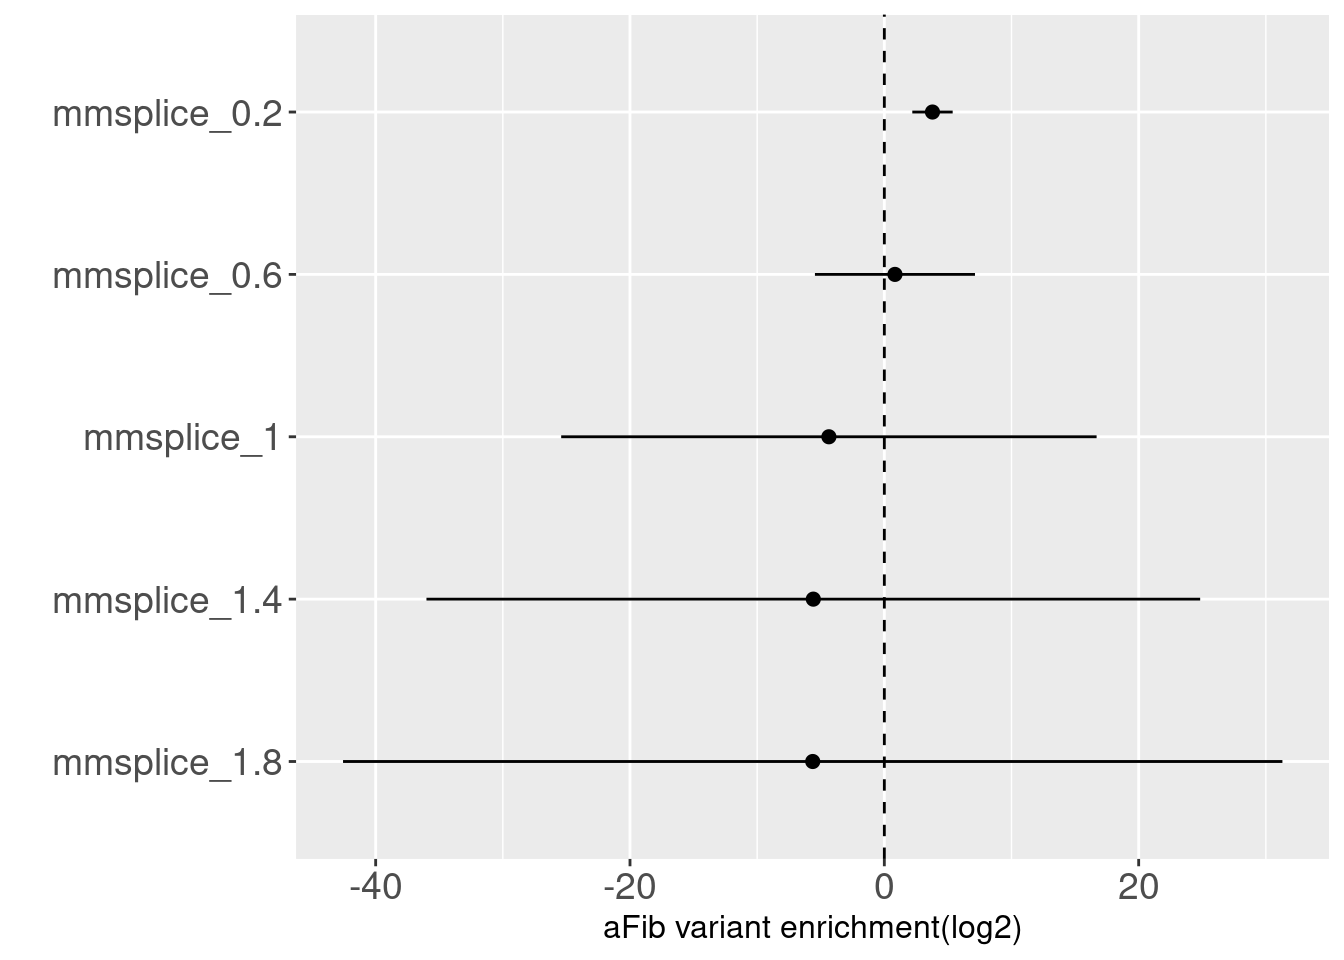
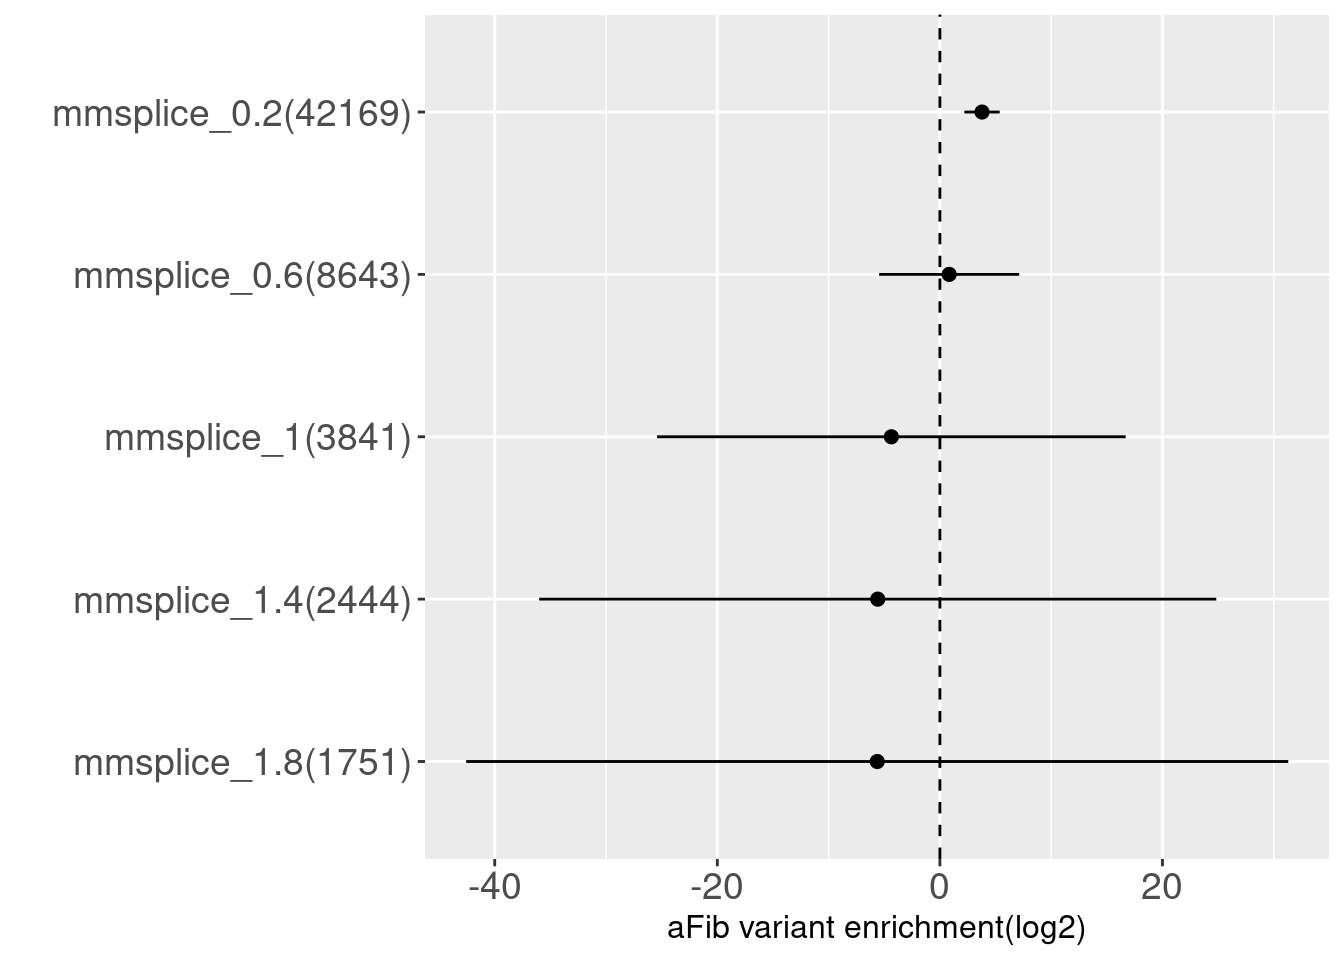
Build site.

diff --git a/docs/enrichment_analysis.html b/docs/enrichment_analysis.html
@@ -370,7 +370,7 @@ div.tocify {
 <div class="tab-content">
 <div id="summary" class="tab-pane fade in active">
 <p>
-<strong>Last updated:</strong> 2021-10-09
+<strong>Last updated:</strong> 2021-10-11
 </p>
 <p>
 <strong>Checks:</strong> <span class="glyphicon glyphicon-ok text-success" aria-hidden="true"></span> 6 <span class="glyphicon glyphicon-exclamation-sign text-danger" aria-hidden="true"></span> 1
@@ -501,16 +501,16 @@ output/scz_immune_joint_enrichment.png
 <div class="panel panel-default">
 <div class="panel-heading">
 <p class="panel-title">
-<a data-toggle="collapse" data-parent="#workflowr-checks" href="#strongRepositoryversionstrongahrefhttpsgithubcomj3gufuncFinemappingtree68fc455ffa248eb46de0d53984d43cec444378bctargetblank68fc455a"> <span class="glyphicon glyphicon-ok text-success" aria-hidden="true"></span> <strong>Repository version:</strong> <a href="https://github.com/j3gu/funcFinemapping/tree/68fc455ffa248eb46de0d53984d43cec444378bc" target="_blank">68fc455</a> </a>
+<a data-toggle="collapse" data-parent="#workflowr-checks" href="#strongRepositoryversionstrongahrefhttpsgithubcomj3gufuncFinemappingtree232f57cd19779218287204b4becf68e6b9b94490targetblank232f57ca"> <span class="glyphicon glyphicon-ok text-success" aria-hidden="true"></span> <strong>Repository version:</strong> <a href="https://github.com/j3gu/funcFinemapping/tree/232f57cd19779218287204b4becf68e6b9b94490" target="_blank">232f57c</a> </a>
 </p>
 </div>
[2 lines of base64/hex data omitted]
 <div class="panel-body">
 <p>
 Great! You are using Git for version control. Tracking code development and connecting the code version to the results is critical for reproducibility.
 </p>
 <p>
-The results in this page were generated with repository version <a href="https://github.com/j3gu/funcFinemapping/tree/68fc455ffa248eb46de0d53984d43cec444378bc" target="_blank">68fc455</a>. See the <em>Past versions</em> tab to see a history of the changes made to the R Markdown and HTML files.
+The results in this page were generated with repository version <a href="https://github.com/j3gu/funcFinemapping/tree/232f57cd19779218287204b4becf68e6b9b94490" target="_blank">232f57c</a>. See the <em>Past versions</em> tab to see a history of the changes made to the R Markdown and HTML files.
 </p>
 <p>
 Note that you need to be careful to ensure that all relevant files for the analysis have been committed to Git prior to generating the results (you can use <code>wflow_publish</code> or <code>wflow_git_commit</code>). workflowr only checks the R Markdown file, but you know if there are other scripts or data files that it depends on. Below is the status of the Git repository when the results were generated:
@@ -596,6 +596,40 @@ Message
 </tr>
 </thead>
 <tbody>
+<tr>
+<td>
+Rmd
+</td>
+<td>
+<a href="https://github.com/j3gu/funcFinemapping/blob/232f57cd19779218287204b4becf68e6b9b94490/analysis/enrichment_analysis.Rmd" target="_blank">232f57c</a>
+</td>
+<td>
+Jing Gu
+</td>
+<td>
+2021-10-11
+</td>
+<td>
+MTSplice on SCZ GWAS
+</td>
+</tr>
+<tr>
+<td>
+html
+</td>
+<td>
+<a href="https://rawcdn.githack.com/j3gu/funcFinemapping/5318fb4a7aca6e30499e8c7296e7fa43e4343213/docs/enrichment_analysis.html" target="_blank">5318fb4</a>
+</td>
+<td>
+Jing Gu
+</td>
+<td>
+2021-10-09
+</td>
+<td>
+Build site.
+</td>
+</tr>
 <tr>
 <td>
 Rmd
@@ -1641,22 +1675,26 @@ Jing Gu
 </div>
 <div id="tissue-specific-splicing" class="section level4">
 <h4>Tissue-specific Splicing</h4>
-<p>Background: From literature, only a limited fraction between 7 to 21% of splicing QTLs are tissue-specific (Meme et al.2015). When tissue-specific splicing was predicted using TSplice, the author found out less than 3.4% tested pairs of tissue-specific splicing scores deviated by 20% from the tissue-averaged splicing scores. In terms of the performance, TSplice's predictions is positively correlated with measurements (mean <span class="math inline">\(\rho=0.22\)</span>). By combining the models of tissue-specific and tissue-indenpendent effects on splicing (called as MTSplice), they were able to achieve significant improvement, especially in 10 out of 12 brain tissues. However, the improvement in relevant mean square error was modest.</p>
+<p>Background: From literature, only a limited fraction between 7 to 21% of splicing QTLs are tissue-specific (Meme et al.2015). The quantity for measuring variant effect on splicing is the inclusion level of the exon, denoted by percent spliced in (PSI <span class="math inline">\(\Psi\)</span>). It was defined as the fratcion of the number of overlapped reads (IR) out of total reads, which are the sum of overlapped reads (IR) and split reads (ER) that are aligned to multiple exons due to alternative splicing. <span class="math display">\[
+\Psi = \frac{IR}{IR+ES}
+\]</span> When tissue-specific splicing was predicted using TSplice, the author found out less than 3.4% tested pairs of tissue-specific splicing scores deviated by 20% from the tissue-averaged splicing scores. In terms of the performance, TSplice's predictions is positively correlated with measurements (mean <span class="math inline">\(\rho=0.22\)</span>). By combining the models of tissue-specific and tissue-indenpendent effects on splicing (called as MTSplice), they were able to achieve significant improvement, especially in 10 out of 12 brain tissues. However, the improvement in relevant mean square error was modest.</p>
+<p>The main score predicted by the tissue-independent model(MMSplice) is delta_logit_psi (<span class="math inline">\(\Delta\text{logit}(\Psi)\)</span>), which denotes the difference in the the inclusion level of the exon between ref and alt alleles. The score is on a logit scale. The <span class="math inline">\(\Delta\text{logit}(\Psi)\)</span> score for each tissue predicted by the combined model (MTSplice) are included in the same output table. As multiple exons were examined for each variant, we retain the highest absolute value of delta_logit_psi across the variant-exon pairs. Lastly, it is recommended that effect of a variant with <span class="math inline">\(|\Delta\text{logit}(\Psi)|\)</span> &gt;=2 is considered to be strong.</p>
 <div id="testrun-on-afib-gwas" class="section level5">
 <h5>Testrun on Afib GWAS</h5>
-<p><strong>MMSplice - not tissue-specific </strong></p>
+<p><strong>MMSplice - not tissue-specific </strong><br />
+This test run was based on splicing annotations generated using a tissue-independent model. AFib's Risk variants were significantly enriched in <span class="math inline">\(|\Delta\text{logit}(\Psi)|\)</span> &gt;= 0.6, which indicates risk variants tend to exert small effects on splicing. Across the cutoffs with higher values, AFib's risk variants were depleted in splicing annotations.</p>
 <pre><code>  cutoff(absolute value) num_gwasVar_in_annot num_randomVar_in_annot
 1                    0.2                42169                  51611
 2                    0.6                 8643                  10906
 3                    1.0                 3841                   4888
 4                    1.4                 2444                   3130
 5                    1.8                 1751                   2276
-  prop_randomVar_in
-1            0.0062
-2            0.0013
-3            0.0006
-4            0.0004
-5            0.0003</code></pre>
+  prop_randomVar_in_annot
+1                  0.0062
+2                  0.0013
+3                  0.0006
+4                  0.0004
+5                  0.0003</code></pre>
 <p><img src="figure/enrichment_analysis.Rmd/unnamed-chunk-23-1.png" width="672" style="display: block; margin: auto;" /></p>
 <p>
 <button type="button" class="btn btn-default btn-xs btn-workflowr btn-workflowr-fig" data-toggle="collapse" data-target="#fig-unnamed-chunk-23-1">
@@ -1741,7 +1779,7 @@ Jing Gu
 </div>
 <p>Tissue: Atrial Appendage-Heart<br />
 <strong>MTSplice - tissue-specific + tissue-independent </strong><br />
-<img src="figure/enrichment_analysis.Rmd/unnamed-chunk-24-1.png" width="672" style="display: block; margin: auto;" /></p>
+Very similar to tissue-independent predictions <img src="figure/enrichment_analysis.Rmd/unnamed-chunk-24-1.png" width="672" style="display: block; margin: auto;" /></p>
 <p>
 <button type="button" class="btn btn-default btn-xs btn-workflowr btn-workflowr-fig" data-toggle="collapse" data-target="#fig-unnamed-chunk-24-1">
 Past versions of unnamed-chunk-24-1.png
@@ -1815,8 +1853,7 @@ Jing Gu
 </div>
 <div id="testrun-on-scz-gwas" class="section level5">
 <h5>Testrun on SCZ GWAS</h5>
-<p><strong>MMSplice - not tissue-specific </strong><br />
-<img src="figure/enrichment_analysis.Rmd/unnamed-chunk-25-1.png" width="672" style="display: block; margin: auto;" /></p>
+<p><strong>MMSplice - not tissue-specific </strong> This test run was based on splicing annotations generated using a tissue-independent model. For SCZ, we observed the enrichment estimates take positive values and their standard deviations were smaller compared to AFib's risk variants. <img src="figure/enrichment_analysis.Rmd/unnamed-chunk-25-1.png" width="672" style="display: block; margin: auto;" /></p>
 <p>
 <button type="button" class="btn btn-default btn-xs btn-workflowr btn-workflowr-fig" data-toggle="collapse" data-target="#fig-unnamed-chunk-25-1">
 Past versions of unnamed-chunk-25-1.png
@@ -1898,12 +1935,14 @@ Jing Gu
 </table>
 </div>
 </div>
-<p><strong>Number of Variants in tisse-specific splicing annotations</strong></p>
-<pre><code>
-Attaching package: &#39;reshape2&#39;</code></pre>
-<pre><code>The following objects are masked from &#39;package:data.table&#39;:
-
-    dcast, melt</code></pre>
+<p><strong>Number of Variants in tisse-specific splicing annotations</strong> We counted the number of variants with the predicted splicing scores greater than each cutoff across multiple brain tissues. We observed greater variations across tissues at a lower cutoff.</p>
+<pre><code>Warning in melt(tbl[-1, ], &quot;cutoff&quot;): The melt generic in data.table has been
+passed a data.frame and will attempt to redirect to the relevant reshape2
+method; please note that reshape2 is deprecated, and this redirection is now
+deprecated as well. To continue using melt methods from reshape2 while both
+libraries are attached, e.g. melt.list, you can prepend the namespace like
+reshape2::melt(tbl[-1, ]). In the next version, this warning will become an
+error.</code></pre>
 <p><img src="figure/enrichment_analysis.Rmd/unnamed-chunk-26-1.png" width="672" style="display: block; margin: auto;" /></p>
 <p>
 <button type="button" class="btn btn-default btn-xs btn-workflowr btn-workflowr-fig" data-toggle="collapse" data-target="#fig-unnamed-chunk-26-1">
@@ -1964,13 +2003,14 @@ Jing Gu
 </table>
 </div>
 </div>
-</div>
-</div>
-</div>
-</div>
-<div id="refined-annotation-set-for-torus-joint-analysis" class="section level2">
-<h2>Refined annotation set for Torus joint analysis</h2>
-<p><strong>Schizophrenia</strong> <img src="figure/enrichment_analysis.Rmd/unnamed-chunk-27-1.png" width="672" style="display: block; margin: auto;" /></p>
+<p><strong>Enrichment of SCZ risk variants in brain-specific annotations</strong> Though the tissue-indenpendent predictions of variants effects on splicing show no significant enrichment with risk variants, we see different levels of enrichments on the combined predictions across multiple brain tissues as well as whole blood.</p>
+<pre class="r"><code>df&lt;-read.table(&quot;output/splicing/torus_enrichment_scz_mtsplice_brain.est&quot;, header=F)
+colnames(df)&lt;-c(&quot;raw_term&quot;, &quot;estimate&quot;, &quot;low&quot;, &quot;high&quot;)
+df[&quot;label&quot;]&lt;-unlist(lapply(df$raw_term, function(i){strsplit(i, &quot;_&quot;)[[1]][1]}))
+df[&quot;counts&quot;]&lt;-c(as.numeric(tbl[tbl$cutoff==&quot;0.6&quot;, 1:(dim(tbl)[2]-1)]), 10884)
+df[&quot;term&quot;]&lt;-sprintf(&quot;%s(%s)&quot;, df$label, df$counts)
+snp_enrichment_plot(df)</code></pre>
+<p><img src="figure/enrichment_analysis.Rmd/unnamed-chunk-27-1.png" width="672" style="display: block; margin: auto;" /></p>
 <p>
 <button type="button" class="btn btn-default btn-xs btn-workflowr btn-workflowr-fig" data-toggle="collapse" data-target="#fig-unnamed-chunk-27-1">
 Past versions of unnamed-chunk-27-1.png
@@ -2031,16 +2071,11 @@ Jing Gu
 </div>
 </div>
 </div>
-<div id="stratified-lsdc-results" class="section level2">
-<h2>Stratified-LSDC results</h2>
-<p><strong>Procedures</strong></p>
-<ol style="list-style-type: decimal">
-<li>Built the annotation sets by combining our own refined annotations with the baseline_LD annotations from S-LDSC.</li>
-<li>Computed LD scores for this customized annotation set</li>
-<li>Run S-LDSC using the ldsc.py code from the PolyFun.</li>
-<li>The functional enrichment estimates were based on all SNPs, instead of only commmon SNPs.</li>
-<li>Efficient sample size needs to be considered. (TO DO)</li>
-</ol>
+</div>
+</div>
+</div>
+<div id="refined-annotation-set-for-torus-joint-analysis" class="section level2">
+<h2>Refined annotation set for Torus joint analysis</h2>
 <p><strong>Schizophrenia</strong> <img src="figure/enrichment_analysis.Rmd/unnamed-chunk-28-1.png" width="672" style="display: block; margin: auto;" /></p>
 <p>
 <button type="button" class="btn btn-default btn-xs btn-workflowr btn-workflowr-fig" data-toggle="collapse" data-target="#fig-unnamed-chunk-28-1">
@@ -2090,132 +2125,27 @@ Jing Gu
 </table>
 </div>
 </div>
-<p>By performing S-LDSC analysis, we see DNA methylation and CDTS annotations shows 6-8 fold enrichment with SCZ variants conditional on all other annotations.</p>
+</div>
+<div id="stratified-lsdc-results" class="section level2">
+<h2>Stratified-LSDC results</h2>
+<p><strong>Procedures</strong></p>
+<ol style="list-style-type: decimal">
+<li>Built the annotation sets by combining our own refined annotations with the baseline_LD annotations from S-LDSC.</li>
+<li>Computed LD scores for this customized annotation set</li>
+<li>Run S-LDSC using the ldsc.py code from the PolyFun.</li>
+<li>The functional enrichment estimates were based on all SNPs, instead of only commmon SNPs.</li>
+<li>Efficient sample size needs to be considered. (TO DO)</li>
+</ol>
+<p><strong>Schizophrenia</strong> <img src="figure/enrichment_analysis.Rmd/unnamed-chunk-29-1.png" width="672" style="display: block; margin: auto;" /> By performing S-LDSC analysis, we see DNA methylation and CDTS annotations shows 6-8 fold enrichment with SCZ variants conditional on all other annotations.</p>
 <p><strong>Across traits</strong></p>
 <p><strong>Notes</strong></p>
 <ul>
 <li>Annotations with no estimates mean they have negative values.</li>
-<li>If the lower end of 95% confidence interval of an estimate is negative, it will be assigned as 0.05 (-4.3 as log2 based). <img src="figure/enrichment_analysis.Rmd/unnamed-chunk-30-1.png" width="768" style="display: block; margin: auto;" /></li>
-</ul>
-<p>
-<button type="button" class="btn btn-default btn-xs btn-workflowr btn-workflowr-fig" data-toggle="collapse" data-target="#fig-unnamed-chunk-30-1">
-Past versions of unnamed-chunk-30-1.png
-</button>
-</p>
-<div id="fig-unnamed-chunk-30-1" class="collapse">
-<div class="table-responsive">
-<table class="table table-condensed table-hover">
-<thead>
-<tr>
-<th>
-Version
-</th>
-<th>
-Author
-</th>
-<th>
-Date
-</th>
-</tr>
-</thead>
-<tbody>
-<tr>
-<td>
-<a href="https://github.com/j3gu/funcFinemapping/blob/91a2b39ea154b9d731491fbee902521716907916/docs/figure/enrichment_analysis.Rmd/unnamed-chunk-30-1.png" target="_blank">91a2b39</a>
-</td>
-<td>
-Jing Gu
-</td>
-<td>
-2021-10-09
-</td>
-</tr>
-</tbody>
-</table>
-</div>
-</div>
-<p><img src="figure/enrichment_analysis.Rmd/unnamed-chunk-30-2.png" width="768" style="display: block; margin: auto;" /></p>
-<p>
-<button type="button" class="btn btn-default btn-xs btn-workflowr btn-workflowr-fig" data-toggle="collapse" data-target="#fig-unnamed-chunk-30-2">
-Past versions of unnamed-chunk-30-2.png
-</button>
-</p>
-<div id="fig-unnamed-chunk-30-2" class="collapse">
-<div class="table-responsive">
-<table class="table table-condensed table-hover">
-<thead>
-<tr>
-<th>
-Version
-</th>
-<th>
-Author
-</th>
-<th>
-Date
-</th>
-</tr>
-</thead>
-<tbody>
-<tr>
-<td>
-<a href="https://github.com/j3gu/funcFinemapping/blob/91a2b39ea154b9d731491fbee902521716907916/docs/figure/enrichment_analysis.Rmd/unnamed-chunk-30-2.png" target="_blank">91a2b39</a>
-</td>
-<td>
-Jing Gu
-</td>
-<td>
-2021-10-09
-</td>
-</tr>
-</tbody>
-</table>
-</div>
-</div>
-<p><img src="figure/enrichment_analysis.Rmd/unnamed-chunk-30-3.png" width="768" style="display: block; margin: auto;" /></p>
-<p>
-<button type="button" class="btn btn-default btn-xs btn-workflowr btn-workflowr-fig" data-toggle="collapse" data-target="#fig-unnamed-chunk-30-3">
-Past versions of unnamed-chunk-30-3.png
-</button>
-</p>
-<div id="fig-unnamed-chunk-30-3" class="collapse">
-<div class="table-responsive">
-<table class="table table-condensed table-hover">
-<thead>
-<tr>
-<th>
-Version
-</th>
-<th>
-Author
-</th>
-<th>
-Date
-</th>
-</tr>
-</thead>
-<tbody>
-<tr>
-<td>
-<a href="https://github.com/j3gu/funcFinemapping/blob/91a2b39ea154b9d731491fbee902521716907916/docs/figure/enrichment_analysis.Rmd/unnamed-chunk-30-3.png" target="_blank">91a2b39</a>
-</td>
-<td>
-Jing Gu
-</td>
-<td>
-2021-10-09
-</td>
-</tr>
-</tbody>
-</table>
-</div>
-</div>
-<p>Overall, we see Torus and S-LDSC generates similar enrichment estimates, except for ibd_UC trait. There seems to be some discrepancy in the estimates, which needs a closer look. We so see the performance of annotations varies across traits.</p>
-<ul>
+<li><p>If the lower end of 95% confidence interval of an estimate is negative, it will be assigned as 0.05 (-4.3 as log2 based). <img src="figure/enrichment_analysis.Rmd/unnamed-chunk-31-1.png" width="768" style="display: block; margin: auto;" /><img src="figure/enrichment_analysis.Rmd/unnamed-chunk-31-2.png" width="768" style="display: block; margin: auto;" /><img src="figure/enrichment_analysis.Rmd/unnamed-chunk-31-3.png" width="768" style="display: block; margin: auto;" /> Overall, we see Torus and S-LDSC generates similar enrichment estimates, except for ibd_UC trait. There seems to be some discrepancy in the estimates, which needs a closer look. We so see the performance of annotations varies across traits.</p></li>
 <li>CDTS at top 5% bins that locate in non-coding regions can better distinguish SCZ from lipid-related trait, but no from bmi, height or immune related traits.</li>
 <li>Human CpG methylations can distinguish SCZ from both immune related traits and lipid-related traits.</li>
 <li>M6A can better distinguish SCZ from immune related traits.</li>
-<li>SCZ variants are not enriched in protein coding regions, while variants associated with all other traits are enriched in protein coding regions.</li>
+<li><p>SCZ variants are not enriched in protein coding regions, while variants associated with all other traits are enriched in protein coding regions.</p></li>
 </ul>
 <pre class="r"><code># gwas&lt;-readRDS(&quot;~/cluster/data/gwas/2_Filtered/scz_2018.rds&quot;)
 # head(gwas)
@@ -2252,8 +2182,8 @@ attached base packages:
 [1] stats     graphics  grDevices utils     datasets  methods   base     
 
 other attached packages:
-[1] reshape2_1.4.4    ggpubr_0.4.0      gridExtra_2.3     ggplot2_3.3.3    
-[5] knitr_1.31        data.table_1.14.0 workflowr_1.6.2  
+[1] ggpubr_0.4.0      gridExtra_2.3     ggplot2_3.3.3     knitr_1.31       
+[5] data.table_1.14.0 workflowr_1.6.2  
 
 loaded via a namespace (and not attached):
  [1] Rcpp_1.0.7        tidyr_1.1.2       assertthat_0.2.1  rprojroot_2.0.2  
@@ -2268,12 +2198,12 @@ loaded via a namespace (and not attached):
 [37] withr_2.4.2       later_1.1.0.1     grid_4.0.4        jsonlite_1.7.2   
 [41] gtable_0.3.0      lifecycle_1.0.0   DBI_1.1.1         git2r_0.28.0     
 [45] magrittr_2.0.1    scales_1.1.1      zip_2.1.1         stringi_1.5.3    
-[49] carData_3.0-4     farver_2.1.0      ggsignif_0.6.1    fs_1.5.0         
-[53] promises_1.2.0.1  bslib_0.2.4       ellipsis_0.3.2    generics_0.1.0   
-[57] vctrs_0.3.8       cowplot_1.1.1     openxlsx_4.2.3    tools_4.0.4      
-[61] forcats_0.5.1     glue_1.4.2        purrr_0.3.4       hms_1.0.0        
-[65] abind_1.4-5       yaml_2.2.1        colorspace_2.0-2  rstatix_0.7.0    
-[69] haven_2.3.1       sass_0.3.1       </code></pre>
+[49] carData_3.0-4     reshape2_1.4.4    farver_2.1.0      ggsignif_0.6.1   
+[53] fs_1.5.0          promises_1.2.0.1  bslib_0.2.4       ellipsis_0.3.2   
+[57] generics_0.1.0    vctrs_0.3.8       cowplot_1.1.1     openxlsx_4.2.3   
+[61] tools_4.0.4       forcats_0.5.1     glue_1.4.2        purrr_0.3.4      
+[65] hms_1.0.0         abind_1.4-5       yaml_2.2.1        colorspace_2.0-2 
+[69] rstatix_0.7.0     haven_2.3.1       sass_0.3.1       </code></pre>
 </div>
 </div>
 
